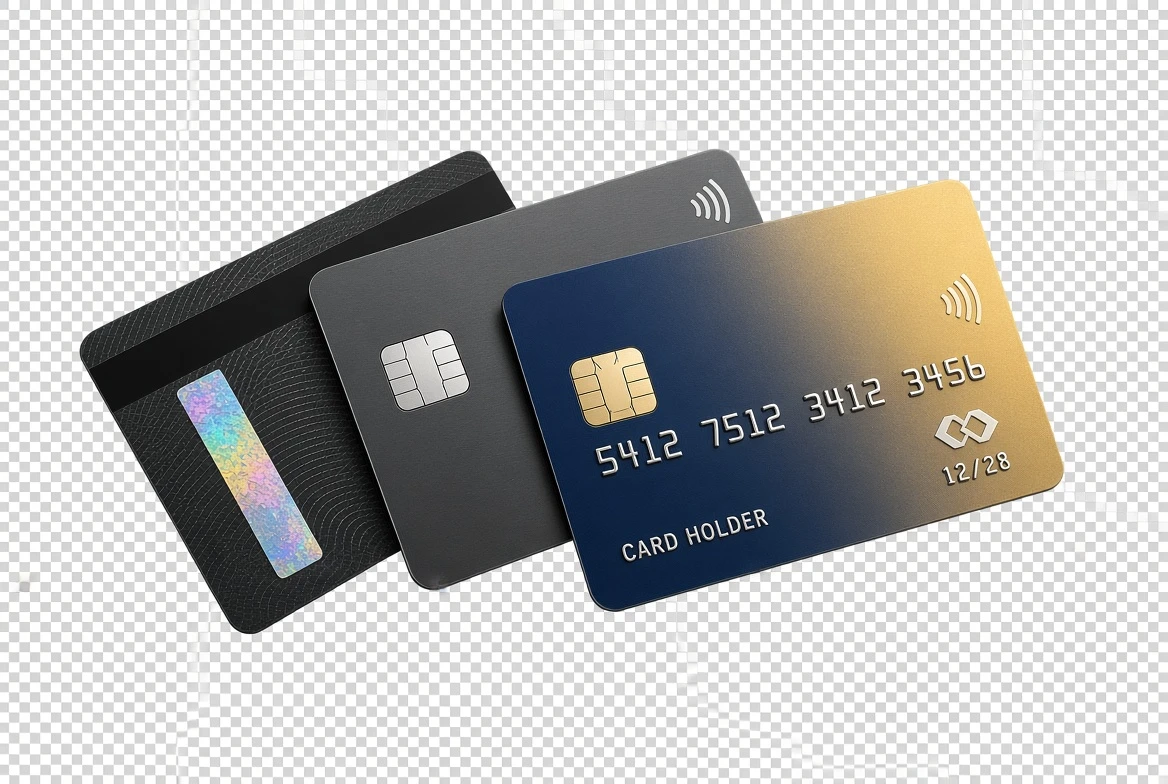
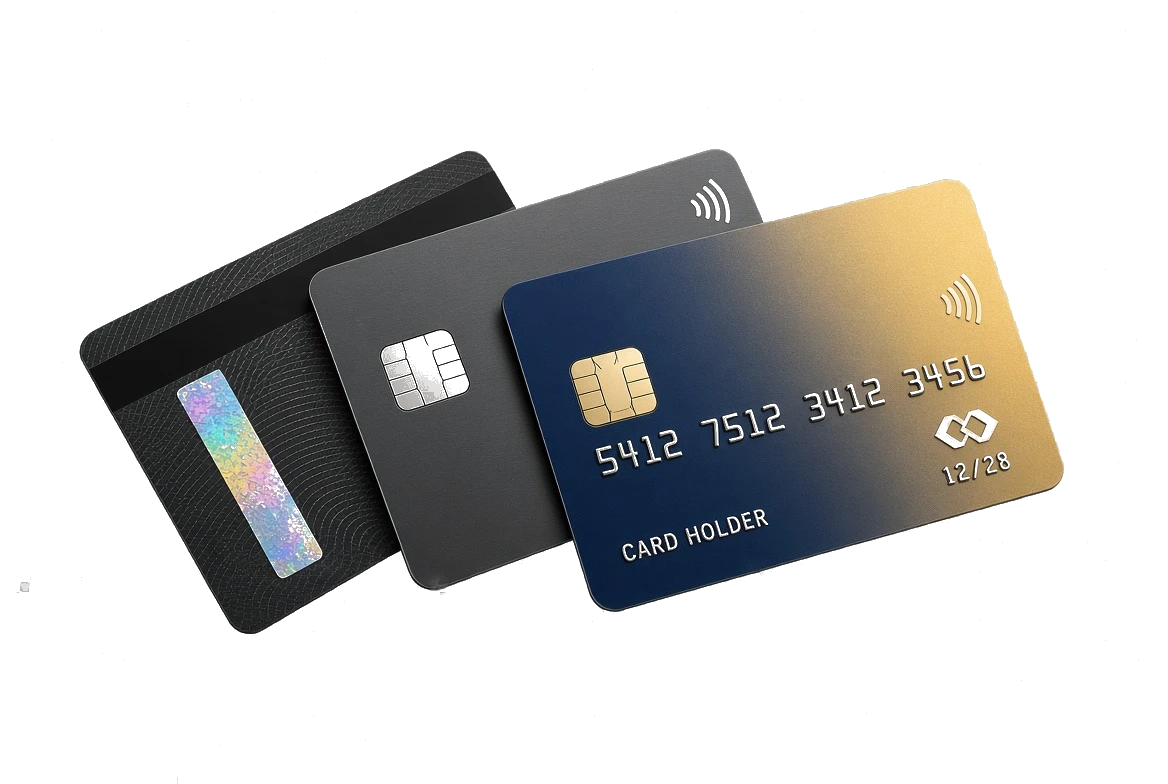
UI/UX audit fixes + transparent card images
- Fix card composite images: restore alpha channel (transparent background)
  so cards display correctly against the dark navy hero section
- Convert country dropdown left/right to logical properties for RTL
- Convert steps-line left/right to logical properties for RTL
- Remove redundant font preload (stylesheet link suffices)
- Add aria-invalid="false" to required form inputs
- Replace hardcoded dark-mode gradient hex values with CSS tokens
- Add button :active states for touch feedback
- Replace inline style="color:#fff" with .txt-w utility class
- Replace inline style="text-align:center" with .txt-center utility class
- Fix media query ordering (620px before 360px)
- Add skin panel max-height constraint on mobile
- Remove dead formSuccess markup and CSS (form uses mailto:, not async)
- Remove dead f.sending and f.ok.* translation keys from all 3 languages

Claude-Session: https://claude.ai/code/session_01P18SSH4nJnWtdeUppcqYZm

diff --git a/index.html b/index.html
@@ -54,8 +54,7 @@
     <meta name="twitter:description" content="Secure card personalization for banks, financial institutions and card issuers worldwide.">
     <meta name="twitter:image" content="https://REPLACE-WITH-LIVE-ORIGIN/assets/og-image.png">
     <meta name="twitter:image:alt" content="Be’eri Printers — secure card personalization services">
-<link rel="preload" href="assets/fonts/fonts.css" as="style">
-    <link rel="stylesheet" href="assets/fonts/fonts.css">
+<link rel="stylesheet" href="assets/fonts/fonts.css">
     <script type="application/ld+json">
     {"@context":"https://schema.org","@type":"Organization",
      "name":"Be’eri Printers",
@@ -187,7 +186,7 @@
 .skin-swatch::before,.skin-swatch::after{content:'';position:absolute;top:0;width:50%;height:100%;}
 .skin-swatch::before{inset-inline-start:0;}
 .skin-swatch::after{inset-inline-end:0;}
-@media(max-width:620px){.skin-toggle{bottom:calc(56px + .75rem);}}
+@media(max-width:620px){.skin-toggle{bottom:calc(56px + .75rem);}.skin-panel{bottom:calc(56px + .75rem + 60px);max-height:calc(100vh - 56px - 80px);}}
 /* ── RESET ──────────────────────────────────────────────── */
 *,*::before,*::after{box-sizing:border-box;margin:0;padding:0;}
 [hidden]{display:none!important;}
@@ -266,7 +265,7 @@ p,li,.hero-body,.form-fail,.fg-err,.footer-col a,.footer-bottom span{text-wrap:p
 :root[lang="el"] .hero h1{max-width:28ch;}   /* fits the phrase on one line */
 .hero h1 em{color:var(--gold);font-style:normal;display:block;}
 :root[lang="el"] .hero h1 em{display:inline;}
-.hero-tagline{font-family:var(--f-display);font-size:clamp(1.15rem,2.5vw,1.65rem);font-weight:300;font-style:var(--italic);color:rgba(255,255,255,.55);margin-bottom:1.5rem;}
+.hero-tagline{font-family:var(--f-display);font-size:clamp(1.15rem,2.5vw,1.65rem);font-weight:300;font-style:var(--italic);color:rgba(255,255,255,.62);margin-bottom:1.5rem;}
 .hero-body{font-size:clamp(.9rem,1.4vw,1rem);color:rgba(255,255,255,.65);max-width:52ch;margin-bottom:2.5rem;line-height:calc(1.75 * var(--lh-mult));}
 .hero-ctas{display:flex;gap:1rem;flex-wrap:wrap;}
 .btn-primary{font-family:var(--f-display);font-size:.92rem;font-weight:700;letter-spacing:var(--ls-btn);text-transform:uppercase;color:var(--navy);background:var(--gold);border:none;padding:.9rem 2rem;border-radius:4px;cursor:pointer;text-decoration:none;transition:background .2s,transform .15s,box-shadow .15s;display:inline-block;}
@@ -294,8 +293,8 @@ p,li,.hero-body,.form-fail,.fg-err,.footer-col a,.footer-bottom span{text-wrap:p
 .counters{display:grid;grid-template-columns:repeat(3,minmax(0,1fr));gap:1.25rem;}
 .counter-item{text-align:center;padding:1.75rem 1rem 1.4rem;border:1px solid var(--border);border-radius:12px;background:linear-gradient(180deg,var(--card-bg) 0%,#EDF3F9 100%);box-shadow:0 4px 16px rgba(7,30,56,.08);position:relative;overflow:hidden;}
 .counter-item::after{content:'';position:absolute;bottom:0;left:15%;right:15%;height:3px;background:linear-gradient(90deg,var(--gold),var(--gold-lt));border-radius:3px 3px 0 0;}
-@media(prefers-color-scheme:dark){:root:not([data-theme="light"]) .counter-item{background:linear-gradient(180deg,var(--card-bg) 0%,#0A1E30 100%);box-shadow:0 4px 20px rgba(0,0,0,.35);} :root:not([data-theme="light"]) .counter-item::after{opacity:.7;}}
-:root[data-theme="dark"] .counter-item{background:linear-gradient(180deg,var(--card-bg) 0%,#0A1E30 100%);box-shadow:0 4px 20px rgba(0,0,0,.35);}
+@media(prefers-color-scheme:dark){:root:not([data-theme="light"]) .counter-item{background:linear-gradient(180deg,var(--card-bg) 0%,var(--bg-alt) 100%);box-shadow:0 4px 20px rgba(0,0,0,.35);} :root:not([data-theme="light"]) .counter-item::after{opacity:.7;}}
+:root[data-theme="dark"] .counter-item{background:linear-gradient(180deg,var(--card-bg) 0%,var(--bg-alt) 100%);box-shadow:0 4px 20px rgba(0,0,0,.35);}
 :root[data-theme="dark"] .counter-item::after{opacity:.7;}
 .counter-value{font-family:var(--f-display);font-size:clamp(2rem,3.5vw,2.8rem);font-weight:800;color:var(--navy-lt);line-height:1;margin-bottom:.3rem;font-variant-numeric:tabular-nums;}
 @media(prefers-color-scheme:dark){:root:not([data-theme="light"]) .counter-value{color:var(--dm-accent);}}
@@ -303,18 +302,17 @@ p,li,.hero-body,.form-fail,.fg-err,.footer-col a,.footer-bottom span{text-wrap:p
 .counter-label{font-family:var(--f-util);font-size:.72rem;font-weight:600;letter-spacing:var(--ls-label);text-transform:uppercase;color:var(--text-muted);min-height:calc(3.2em * var(--lh-mult));}
 .counter-note{grid-column:1/-1;font-size:.72rem;color:var(--text-muted);font-style:var(--italic);text-align:center;opacity:.75;}
 /* ── SERVICES ───────────────────────────────────────────── */
-.services-grid{display:flex;flex-wrap:wrap;gap:1.25rem;}
-.svc-card{flex:1 1 240px;}
+.services-grid{display:grid;grid-template-columns:repeat(auto-fill,minmax(240px,1fr));gap:1.25rem;}
 .svc-card{padding:1.6rem 1.4rem;border:1px solid rgba(255,255,255,.12);border-radius:12px;background:rgba(255,255,255,.05);backdrop-filter:blur(6px);-webkit-backdrop-filter:blur(6px);transition:background .2s,border-color .2s,transform .2s,box-shadow .2s;box-shadow:0 4px 16px rgba(0,0,0,.2),inset 0 1px 0 rgba(255,255,255,.08);position:relative;overflow:hidden;}
 .svc-card::before{content:'';position:absolute;top:0;left:0;right:0;height:3px;background:linear-gradient(90deg,transparent,rgba(var(--card-glow),.6),transparent);}
 .svc-card:hover{background:rgba(255,255,255,.1);border-color:rgba(var(--card-glow),.5);transform:translateY(-3px);box-shadow:0 10px 30px rgba(0,0,0,.3),inset 0 1px 0 rgba(255,255,255,.12);}
 .svc-icon{width:38px;height:38px;margin-bottom:.9rem;color:var(--gold);}
 [dir="rtl"] .svc-icon.mir{transform:scaleX(-1);}
 .svc-card h3{min-height:2.7em;font-family:var(--f-util);font-size:.88rem;font-weight:600;color:#fff;margin-bottom:.5rem;line-height:1.35;overflow-wrap:break-word;}
-.svc-card p{font-size:.79rem;color:rgba(255,255,255,.5);line-height:calc(1.6 * var(--lh-mult));}
+.svc-card p{font-size:.79rem;color:rgba(255,255,255,.62);line-height:calc(1.6 * var(--lh-mult));}
 /* ── STEPS ──────────────────────────────────────────────── */
 .steps-wrap{position:relative;}
-.steps-line{position:absolute;top:30px;left:calc((100% - 2.5rem)/12);right:calc((100% - 2.5rem)/12);height:2px;background:linear-gradient(to right,var(--gold),var(--gold-lt));z-index:0;}
+.steps-line{position:absolute;top:30px;inset-inline-start:calc((100% - 2.5rem)/12);inset-inline-end:calc((100% - 2.5rem)/12);height:2px;background:linear-gradient(to right,var(--gold),var(--gold-lt));z-index:0;}
 [dir="rtl"] .steps-line{background:linear-gradient(to left,var(--gold),var(--gold-lt));}
 .steps-grid{display:grid;grid-template-columns:repeat(6,minmax(0,1fr));gap:.5rem;position:relative;z-index:1;}
 .step{text-align:center;padding:0 .5rem;}
@@ -337,8 +335,8 @@ p,li,.hero-body,.form-fail,.fg-err,.footer-col a,.footer-bottom span{text-wrap:p
 .cap-grid{display:grid;grid-template-columns:repeat(3,minmax(0,1fr));gap:1.25rem;}
 .cap-card{padding:1.6rem 1.5rem;background:linear-gradient(135deg,#FDFEFF 0%,#F0F5FA 100%);border:1px solid var(--border);border-radius:12px;border-inline-start:4px solid var(--gold);box-shadow:0 4px 16px rgba(7,30,56,.08);transition:transform .2s,box-shadow .2s;}
 .cap-card:hover{transform:translateY(-3px);box-shadow:0 8px 24px rgba(7,30,56,.12);}
-@media(prefers-color-scheme:dark){:root:not([data-theme="light"]) .cap-card{background:linear-gradient(135deg,#122A42 0%,#0D1F34 100%);box-shadow:0 4px 20px rgba(0,0,0,.35);} :root:not([data-theme="light"]) .cap-card:hover{box-shadow:0 10px 30px rgba(0,0,0,.45);}}
-:root[data-theme="dark"] .cap-card{background:linear-gradient(135deg,#122A42 0%,#0D1F34 100%);box-shadow:0 4px 20px rgba(0,0,0,.35);}
+@media(prefers-color-scheme:dark){:root:not([data-theme="light"]) .cap-card{background:linear-gradient(135deg,var(--card-bg) 0%,var(--bg-alt) 100%);box-shadow:0 4px 20px rgba(0,0,0,.35);} :root:not([data-theme="light"]) .cap-card:hover{box-shadow:0 10px 30px rgba(0,0,0,.45);}}
+:root[data-theme="dark"] .cap-card{background:linear-gradient(135deg,var(--card-bg) 0%,var(--bg-alt) 100%);box-shadow:0 4px 20px rgba(0,0,0,.35);}
 :root[data-theme="dark"] .cap-card:hover{box-shadow:0 10px 30px rgba(0,0,0,.45);}
 .cap-card h3{font-family:var(--f-util);font-size:.875rem;font-weight:700;color:var(--navy-lt);margin-bottom:.5rem;line-height:1.35;overflow-wrap:break-word;}
 @media(prefers-color-scheme:dark){:root:not([data-theme="light"]) .cap-card h3{color:var(--dm-accent);}}
@@ -351,13 +349,13 @@ p,li,.hero-body,.form-fail,.fg-err,.footer-col a,.footer-bottom span{text-wrap:p
 .why-card:hover{background:rgba(255,255,255,.1);border-color:rgba(var(--card-glow),.35);transform:translateY(-3px);box-shadow:0 10px 30px rgba(0,0,0,.3),inset 0 1px 0 rgba(255,255,255,.12);}
 .why-icon{width:42px;height:42px;color:var(--gold);margin-bottom:.9rem;}
 .why-card h3{font-family:var(--f-display);font-size:1.1rem;font-weight:700;color:#fff;letter-spacing:var(--ls-why);text-transform:uppercase;margin-bottom:.5rem;overflow-wrap:break-word;}
-.why-card p{font-size:.825rem;color:rgba(255,255,255,.58);line-height:calc(1.68 * var(--lh-mult));}
+.why-card p{font-size:.825rem;color:rgba(255,255,255,.65);line-height:calc(1.68 * var(--lh-mult));}
 /* ── REFERENCES ─────────────────────────────────────────── */
 .ref-grid{display:grid;grid-template-columns:repeat(2,minmax(0,1fr));gap:1.25rem;}
 .ref-card{padding:1.9rem;background:linear-gradient(180deg,#FFFFFF 0%,#F5F8FB 100%);border:1px solid var(--border);border-radius:12px;border-top:3px solid var(--gold);box-shadow:0 4px 16px rgba(7,30,56,.08);transition:transform .2s,box-shadow .2s;}
 .ref-card:hover{transform:translateY(-3px);box-shadow:0 8px 24px rgba(7,30,56,.12);}
-@media(prefers-color-scheme:dark){:root:not([data-theme="light"]) .ref-card{background:linear-gradient(180deg,var(--card-bg) 0%,#0A1E30 100%);box-shadow:0 4px 20px rgba(0,0,0,.35);} :root:not([data-theme="light"]) .ref-card:hover{box-shadow:0 10px 30px rgba(0,0,0,.45);}}
-:root[data-theme="dark"] .ref-card{background:linear-gradient(180deg,var(--card-bg) 0%,#0A1E30 100%);box-shadow:0 4px 20px rgba(0,0,0,.35);}
+@media(prefers-color-scheme:dark){:root:not([data-theme="light"]) .ref-card{background:linear-gradient(180deg,var(--card-bg) 0%,var(--bg-alt) 100%);box-shadow:0 4px 20px rgba(0,0,0,.35);} :root:not([data-theme="light"]) .ref-card:hover{box-shadow:0 10px 30px rgba(0,0,0,.45);}}
+:root[data-theme="dark"] .ref-card{background:linear-gradient(180deg,var(--card-bg) 0%,var(--bg-alt) 100%);box-shadow:0 4px 20px rgba(0,0,0,.35);}
 :root[data-theme="dark"] .ref-card:hover{box-shadow:0 10px 30px rgba(0,0,0,.45);}
 .ref-type{font-family:var(--f-util);font-size:.72rem;font-weight:600;letter-spacing:var(--ls-ref);text-transform:uppercase;color:var(--gold-txt);margin-bottom:.6rem;}
 .ref-card h3{font-family:var(--f-display);font-size:1.1rem;font-weight:700;color:var(--navy);margin-bottom:.5rem;line-height:1.25;}
@@ -378,7 +376,7 @@ p,li,.hero-body,.form-fail,.fg-err,.footer-col a,.footer-bottom span{text-wrap:p
 .form-inner > div > p:not(.eyebrow){font-size:.875rem;color:rgba(255,255,255,.58);line-height:calc(1.75 * var(--lh-mult));margin-bottom:.9rem;max-width:42ch;}
 .form-intro-note{margin-top:2rem;padding-top:1.5rem;border-top:1px solid rgba(255,255,255,.08);font-size:.72rem;color:rgba(255,255,255,.6);font-style:var(--italic);line-height:calc(1.6 * var(--lh-mult));}
 .contact-form{display:grid;grid-template-columns:repeat(2,minmax(0,1fr));gap:.9rem;}
-.full{grid-column:1/-1;}
+.full,.contact-form > noscript{grid-column:1/-1;}
 .fg{display:flex;flex-direction:column;gap:.3rem;}
 .fg label{font-family:var(--f-util);font-size:.7rem;font-weight:600;letter-spacing:var(--ls-label);text-transform:uppercase;color:rgba(255,255,255,.66);}
 .fg input,.fg select,.fg textarea{background:rgba(255,255,255,.06);border:1.5px solid rgba(255,255,255,.14);border-radius:4px;padding:.7rem .95rem;font-family:var(--f-body);font-size:.875rem;color:#fff;outline:none;transition:border-color .2s,background .2s;width:100%;}
@@ -395,7 +393,7 @@ p,li,.hero-body,.form-fail,.fg-err,.footer-col a,.footer-bottom span{text-wrap:p
 .skip-link:focus{position:fixed;inset-block-start:0;inset-inline-start:0;width:auto;height:auto;margin:0;clip-path:none;z-index:300;background:var(--gold);color:var(--navy);font-family:var(--f-util);font-weight:600;font-size:.85rem;padding:.7rem 1.1rem;border-end-end-radius:4px;text-decoration:none;}
 .fg select option{background:var(--form-opt-bg);color:#fff;}
 .country-wrap{position:relative;}
-.country-menu{display:none;position:absolute;top:100%;left:0;right:0;max-height:220px;overflow-y:auto;background:var(--navy);border:1.5px solid rgba(255,255,255,.18);border-radius:0 0 6px 6px;margin-top:-1px;z-index:50;list-style:none;padding:0;}
+.country-menu{display:none;position:absolute;top:100%;inset-inline-start:0;inset-inline-end:0;max-height:220px;overflow-y:auto;background:var(--navy);border:1.5px solid rgba(255,255,255,.18);border-radius:0 0 6px 6px;margin-top:-1px;z-index:50;list-style:none;padding:0;}
 .country-menu.open{display:block;}
 .country-menu li{padding:.55rem .95rem;font-family:var(--f-body);font-size:.875rem;color:rgba(255,255,255,.8);cursor:pointer;transition:background .12s;}
 .country-menu li:hover,.country-menu li.active{background:rgba(255,255,255,.1);color:#fff;}
@@ -410,9 +408,7 @@ p,li,.hero-body,.form-fail,.fg-err,.footer-col a,.footer-bottom span{text-wrap:p
 .btn-submit:hover{background:var(--gold-lt);transform:translateY(-1px);}
 .btn-submit:disabled{cursor:not-allowed;opacity:.65;}
 .btn-submit:disabled:hover{background:var(--gold);transform:none;}
-.form-success{display:none;text-align:center;padding:3rem 2rem;background:rgba(196,136,42,.1);border:1.5px solid var(--gold);border-radius:6px;}
-.form-success h3{font-family:var(--f-display);font-size:1.5rem;font-weight:700;color:var(--gold);margin-bottom:.65rem;}
-.form-success p{font-size:.875rem;color:rgba(255,255,255,.65);line-height:calc(1.68 * var(--lh-mult));}
+.btn-primary:active,.btn-ghost:active,.btn-nav:active,.btn-dark:active,.btn-submit:active:not(:disabled){transform:scale(.97);}
 /* ── FOOTER ─────────────────────────────────────────────── */
 .footer{background:var(--footer-bg);padding:3rem clamp(1.5rem,4vw,3rem) 1.4rem;color:rgba(255,255,255,.66);}
 .footer-inner{max-width:1200px;margin:0 auto;}
@@ -425,6 +421,9 @@ p,li,.hero-body,.form-fail,.fg-err,.footer-col a,.footer-bottom span{text-wrap:p
 .foot-privacy{color:var(--slate);text-decoration:underline;}
 .foot-privacy:hover{color:#fff;}
 .footer-bottom{display:flex;justify-content:space-between;align-items:center;font-size:.72rem;flex-wrap:wrap;gap:.5rem;}
+/* ── UTILITY ────────────────────────────────────────────── */
+.txt-w{color:#fff;}
+.txt-center{text-align:center;}
 /* ── SCROLL REVEAL ──────────────────────────────────────── */
 @media(prefers-reduced-motion:no-preference){
   /* .js is set by script only when the reveal observer is about to run, so
@@ -471,9 +470,6 @@ p,li,.hero-body,.form-fail,.fg-err,.footer-col a,.footer-bottom span{text-wrap:p
   .footer-top{grid-template-columns:repeat(2,minmax(0,1fr));gap:1.75rem;}
   .hero-cards{display:none;}
 }
-@media(max-width:360px){
-  .nav-inner{padding:0 1rem;gap:.5rem;}
-}
 @media(max-width:620px){
   .lang-btn{min-height:44px;padding:.5rem .7rem;}
   .chk{min-height:32px;}
@@ -489,6 +485,9 @@ p,li,.hero-body,.form-fail,.fg-err,.footer-col a,.footer-bottom span{text-wrap:p
   .mobile-cta-bar{display:block;}
   .logo-sub{display:none;}
   body{padding-bottom:56px;}
+}
+@media(max-width:360px){
+  .nav-inner{padding:0 1rem;gap:.5rem;}
 }
 /* ── PRINT ──────────────────────────────────────────────── */
 @media print{
@@ -558,7 +557,7 @@ p,li,.hero-body,.form-fail,.fg-err,.footer-col a,.footer-bottom span{text-wrap:p
 <!-- HERO -->
 <section class="hero" id="home">
   <div class="hero-cards" aria-hidden="true">
-    <img class="hero-card-img" src="img/cards-composite.png" alt="" width="1168" height="784">
+    <picture><source srcset="img/cards-composite.webp" type="image/webp"><img class="hero-card-img" src="img/cards-composite.png" alt="" width="1168" height="784" fetchpriority="high"></picture>
   </div>
   <div class="hero-inner">
     <p class="eyebrow" style="margin-bottom:1.2rem;" data-i18n="hero.eyebrow">Be’eri Printers · card personalization services</p>
@@ -610,7 +609,7 @@ p,li,.hero-body,.form-fail,.fg-err,.footer-col a,.footer-bottom span{text-wrap:p
   <div class="section-inner">
     <div class="section-hdr reveal">
       <p class="eyebrow" data-i18n="svc.eyebrow">What we do</p>
-      <h2 style="color:#fff;" data-i18n="svc.h2">Personalization services</h2>
+      <h2 class="txt-w" data-i18n="svc.h2">Personalization services</h2>
       <p style="color:rgba(255,255,255,.58);" data-i18n="svc.intro">End-to-end card personalization — from secure data handling to physical production and distribution. Every service is delivered within a controlled, audited environment.</p>
     </div>
     <div class="services-grid">
@@ -675,7 +674,7 @@ p,li,.hero-body,.form-fail,.fg-err,.footer-col a,.footer-bottom span{text-wrap:p
 <!-- HOW IT WORKS -->
 <section class="section s-light" id="how-it-works">
   <div class="section-inner">
-    <div class="section-hdr reveal" style="text-align:center;">
+    <div class="section-hdr reveal txt-center">
       <p class="eyebrow" data-i18n="how.eyebrow">Process</p>
       <h2 data-i18n="how.h2">How it works</h2>
       <p style="color:var(--text-muted);margin:0 auto;" data-i18n="how.intro">A structured, secure workflow from project brief to delivery, designed around operational transparency and data protection at every stage.</p>
@@ -726,7 +725,7 @@ p,li,.hero-body,.form-fail,.fg-err,.footer-col a,.footer-bottom span{text-wrap:p
   <div class="section-inner">
     <div class="section-hdr reveal">
       <p class="eyebrow" data-i18n="sec.eyebrow">Security &amp; compliance</p>
-      <h2 style="color:#fff;" data-i18n="sec.h2">Security and quality built into every process</h2>
+      <h2 class="txt-w" data-i18n="sec.h2">Security and quality built into every process</h2>
     </div>
     <!-- ==================================================================
          CLIENT SIGN-OFF REQUIRED BEFORE LAUNCH — CERTIFICATION CLAIMS
@@ -794,9 +793,9 @@ p,li,.hero-body,.form-fail,.fg-err,.footer-col a,.footer-bottom span{text-wrap:p
 <!-- WHY -->
 <section class="section s-mid" id="why-beeri">
   <div class="section-inner">
-    <div class="section-hdr reveal" style="text-align:center;">
+    <div class="section-hdr reveal txt-center">
       <p class="eyebrow" data-i18n="why.eyebrow">Why choose us</p>
-      <h2 style="color:#fff;" data-i18n="why.h2">Why work with Be’eri Printers?</h2>
+      <h2 class="txt-w" data-i18n="why.h2">Why work with Be’eri Printers?</h2>
     </div>
     <div class="why-grid">
       <div class="why-card reveal">
@@ -892,10 +891,10 @@ p,li,.hero-body,.form-fail,.fg-err,.footer-col a,.footer-bottom span{text-wrap:p
     </div>
     <div class="reveal" style="transition-delay:.1s;">
       <form class="contact-form" id="projectForm" novalidate>
-        <div class="fg"><label for="f-name" data-i18n="f.name">Name *</label><input type="text" id="f-name" name="name" autocomplete="name" maxlength="120" aria-required="true" aria-describedby="e-name" data-i18n-ph="f.name.ph" placeholder="Your full name" required><span class="fg-err" id="e-name" data-i18n="err.required">This field is required</span></div>
-        <div class="fg"><label for="f-company" data-i18n="f.company">Company *</label><input type="text" id="f-company" name="organization" autocomplete="organization" maxlength="160" aria-required="true" aria-describedby="e-company" data-i18n-ph="f.company.ph" placeholder="Organization name" required><span class="fg-err" id="e-company" data-i18n="err.required">This field is required</span></div>
+        <div class="fg"><label for="f-name" data-i18n="f.name">Name *</label><input type="text" id="f-name" name="name" autocomplete="name" maxlength="120" aria-required="true" aria-invalid="false" aria-describedby="e-name" data-i18n-ph="f.name.ph" placeholder="Your full name" required><span class="fg-err" id="e-name" data-i18n="err.required">This field is required</span></div>
+        <div class="fg"><label for="f-company" data-i18n="f.company">Company *</label><input type="text" id="f-company" name="organization" autocomplete="organization" maxlength="160" aria-required="true" aria-invalid="false" aria-describedby="e-company" data-i18n-ph="f.company.ph" placeholder="Organization name" required><span class="fg-err" id="e-company" data-i18n="err.required">This field is required</span></div>
         <div class="fg"><label for="f-title" data-i18n="f.title">Job title</label><input type="text" id="f-title" name="title" autocomplete="organization-title" maxlength="120" data-i18n-ph="f.title.ph" placeholder="Your role or position"></div>
-        <div class="fg country-wrap"><label for="f-country" data-i18n="f.country">Country *</label><input type="text" id="f-country" name="country" autocomplete="country-name" maxlength="80" aria-required="true" aria-describedby="e-country" data-i18n-ph="f.country.ph" placeholder="Country of operation" required role="combobox" aria-autocomplete="list" aria-expanded="false" aria-controls="country-list"><ul class="country-menu" id="country-list" role="listbox"></ul><span class="fg-err" id="e-country" data-i18n="err.required">This field is required</span></div>
+        <div class="fg country-wrap"><label for="f-country" data-i18n="f.country">Country *</label><input type="text" id="f-country" name="country" autocomplete="country-name" maxlength="80" aria-required="true" aria-invalid="false" aria-describedby="e-country" data-i18n-ph="f.country.ph" placeholder="Country of operation" required role="combobox" aria-autocomplete="list" aria-expanded="false" aria-controls="country-list"><ul class="country-menu" id="country-list" role="listbox"></ul><span class="fg-err" id="e-country" data-i18n="err.required">This field is required</span></div>
         <div class="fg full"><label for="f-phone" data-i18n="f.phone">Phone</label><input type="tel" id="f-phone" name="phone" dir="ltr" autocomplete="tel" maxlength="40" placeholder="+00 000 000 0000"></div>
         <div class="fg full"><label for="f-desc" data-i18n="f.desc">Project description</label>
           <textarea id="f-desc" name="description" maxlength="4000" data-i18n-ph="f.desc.ph" placeholder="Briefly describe your project, timeline, specific requirements or questions…"></textarea>
@@ -907,10 +906,6 @@ p,li,.hero-body,.form-fail,.fg-err,.footer-col a,.footer-bottom span{text-wrap:p
         <p class="form-fail" id="formFail" role="alert" data-i18n="err.fail" hidden>We were unable to send your brief. Please try again, or contact us directly.</p>
         <button type="submit" class="btn-submit" data-i18n="f.submit">Send project brief via email</button>
       </form>
-      <div class="form-success" id="formSuccess" role="status" aria-live="polite">
-        <h3 data-i18n="f.ok.t">Thank you</h3>
-        <p data-i18n="f.ok.p">Your project brief has been received. A member of our personalization team will respond within one business day.</p>
-      </div>
     </div>
   </div>
 </section>
@@ -1089,8 +1084,7 @@ T.en = {
 "f.country":"Country *","f.country.ph":"Country of operation","f.phone":"Phone",
 "f.desc":"Project description","f.desc.ph":"Briefly describe your project, timeline, specific requirements or questions…",
 "chk1":"Card personalization","chk2":"Encoding & chip personalization","chk6":"Mailing & fulfillment","chk7":"Packaging, insertion & sorting",
-"f.submit":"Send project brief via email","f.ok.t":"Thank you",
-"f.ok.p":"Your project brief has been received. A member of our personalization team will respond within one business day.",
+"f.submit":"Send project brief via email",
 "mail.subject":"Project Brief — Be’eri Printers",
 "foot.tag":"Card personalization for banks, financial institutions and card issuers worldwide.",
 "foot.company":"Company","foot.k2":"Submit an RFQ","foot.k3":"Talk to our team",
@@ -1102,7 +1096,6 @@ T.en = {
 "skin.title":"Color palette",
 "err.required":"This field is required",
 "err.fail":"We were unable to send your brief. Please try again, or contact us directly.",
-"f.sending":"Sending…",
 "f.consent":"I agree that Be’eri Printers may process these details in order to respond to my inquiry.",
 "err.consent":"Please confirm this to continue",
 "err.nojs":"This form needs JavaScript to open your email client. Please enable it, or email headoffice@beeriprint.co.il directly.",
@@ -1205,8 +1198,7 @@ T.ar = {
 "f.country":"الدولة *","f.country.ph":"دولة التشغيل","f.phone":"الهاتف",
 "f.desc":"وصف المشروع","f.desc.ph":"اذكروا بإيجاز مشروعكم وجدوله الزمني ومتطلباته الخاصة أو أي أسئلة…",
 "chk1":"تخصيص البطاقات","chk2":"الترميز وتخصيص الشريحة","chk6":"الإرسال البريدي وتجهيز الطلبات","chk7":"التغليف والإدراج والفرز",
-"f.submit":"إرسال ملخص المشروع بالبريد الإلكتروني","f.ok.t":"شكرًا لكم",
-"f.ok.p":"تم استلام ملخص مشروعكم. سيتواصل معكم أحد أعضاء فريق التخصيص لدينا خلال يوم عمل واحد.",
+"f.submit":"إرسال ملخص المشروع بالبريد الإلكتروني",
 "mail.subject":"ملخص مشروع — Be’eri Printers",
 "foot.tag":"تخصيص البطاقات للبنوك والمؤسسات المالية وجهات إصدار البطاقات حول العالم.",
 "foot.company":"الشركة","foot.k2":"طلب عرض سعر","foot.k3":"تحدثوا مع فريقنا",
@@ -1218,7 +1210,6 @@ T.ar = {
 "skin.title":"لوحة الألوان",
 "err.required":"هذا الحقل مطلوب",
 "err.fail":"لم نتمكن من إرسال ملخص مشروعكم الآن. حاولوا مرة أخرى أو تواصلوا معنا مباشرة.",
-"f.sending":"جارٍ الإرسال…",
 "f.consent":"أوافق على أن تستخدم Be’eri Printers هذه البيانات للرد على استفساري.",
 "err.consent":"يلزم الموافقة للمتابعة",
 "err.nojs":"يحتاج هذا النموذج إلى JavaScript لفتح برنامج البريد الإلكتروني. يُرجى تمكينه أو الإرسال مباشرة إلى headoffice@beeriprint.co.il.",
@@ -1321,8 +1312,7 @@ T.el = {
 "f.country":"Χώρα *","f.country.ph":"Χώρα δραστηριότητας","f.phone":"Τηλέφωνο",
 "f.desc":"Περιγραφή έργου","f.desc.ph":"Περιγράψτε συνοπτικά το έργο, το χρονοδιάγραμμα, ειδικές απαιτήσεις ή ερωτήσεις...",
 "chk1":"Εξατομίκευση καρτών","chk2":"Κωδικοποίηση & εξατομίκευση chip","chk6":"Ταχυδρομική αποστολή & fulfillment","chk7":"Συσκευασία, ένθεση & ταξινόμηση",
-"f.submit":"Αποστολή brief έργου μέσω email","f.ok.t":"Σας ευχαριστούμε",
-"f.ok.p":"Το brief του έργου σας ελήφθη. Μέλος της ομάδας εξατομίκευσής μας θα απαντήσει εντός μιας εργάσιμης ημέρας.",
+"f.submit":"Αποστολή brief έργου μέσω email",
 "mail.subject":"Brief Έργου — Be’eri Printers",
 "foot.tag":"Εξατομίκευση καρτών για τράπεζες, χρηματοπιστωτικά ιδρύματα και εκδότες καρτών παγκοσμίως.",
 "foot.company":"Εταιρεία","foot.k2":"Αίτηση προσφοράς","foot.k3":"Μιλήστε με την ομάδα μας",
@@ -1334,7 +1324,6 @@ T.el = {
 "skin.title":"Παλέτα χρωμάτων",
 "err.required":"Το πεδίο είναι υποχρεωτικό",
 "err.fail":"Δεν μπορέσαμε να στείλουμε το brief σας. Δοκιμάστε ξανά ή επικοινωνήστε μαζί μας απευθείας.",
-"f.sending":"Αποστολή…",
 "f.consent":"Συμφωνώ ότι η Be’eri Printers μπορεί να επεξεργαστεί αυτά τα στοιχεία για να απαντήσει στο αίτημά μου.",
 "err.consent":"Απαιτείται επιβεβαίωση για να συνεχίσετε",
 "err.nojs":"Η φόρμα χρειάζεται JavaScript για να ανοίξει το email σας. Ενεργοποιήστε την ή στείλτε email στο headoffice@beeriprint.co.il.",
@@ -1533,8 +1522,7 @@ if ('IntersectionObserver' in window) {
 }
 /* ── CONTACT FORM ─────────────────────────────────────────────────────── */
 var form    = document.getElementById('projectForm');
-var success = document.getElementById('formSuccess');
-if (form && success) {
+if (form) {
   var REQUIRED = [
     {id:'f-name',    err:'e-name'},
     {id:'f-company', err:'e-company'},
